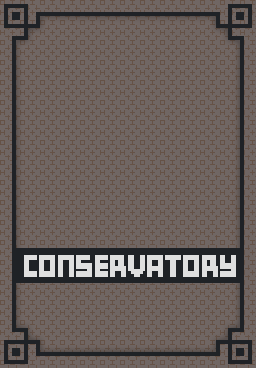
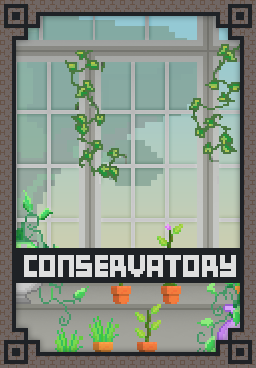
Operation: Assets. Status: Complete
and some other small stuff

diff --git a/src/com/team11/cluedo/ui/GameScreen.java b/src/com/team11/cluedo/ui/GameScreen.java
@@ -70,7 +70,6 @@ public class GameScreen extends JFrame implements Screen {
     private final Players gamePlayers;
     private final Assets gameAssets;
     private final Cards gameCards;
-    private Accusations accusations;
 
     private final Resolution resolution;
     private Dimension currSize;
@@ -79,7 +78,7 @@ public class GameScreen extends JFrame implements Screen {
 
     public GameScreen(Board gameBoard, Suspects gameSuspects, Weapons gameWeapons, Players gamePlayers, Assets gameAssets, Resolution resolution, String name) throws IOException{
         super(name);
-        //super.setIconImage(gameAssets.getIcon());
+        super.setIconImage(gameAssets.getIcon());
         this.gameBoard = gameBoard;
         this.gameSuspects = gameSuspects;
         this.gameWeapons = gameWeapons;
@@ -92,7 +91,6 @@ public class GameScreen extends JFrame implements Screen {
         this.qPanel = new QPanel(this, this.resolution);
         this.gameDice = new Dice(gameAssets, resolution);
         this.playerChange = new PlayerChange(resolution);
-        //this.accusations= new Accusations(gameAssets,gameCards,resolution);
         this.cardsPanel = new CardsPanel(gameAssets, resolution, "Your Cards");
         this.notesPanel = new NotesPanel(gameAssets,resolution);
     }

diff --git a/src/com/team11/cluedo/ui/MenuScreen.java b/src/com/team11/cluedo/ui/MenuScreen.java
@@ -168,6 +168,9 @@ public class MenuScreen implements Screen {
         playButton.addActionListener(e -> {
             if (!doSelection) {
                 selectionPanel.setVisible(true);
+                for (int i = 0 ; i < selectionPanel.getComponents().length ; i++) {
+                    selectionPanel.getComponent(i).setEnabled(false);
+                }
                 menuPanel.setEnabled(false);
                 playButton.setEnabled(false);
                 doSelection = true;
@@ -178,8 +181,11 @@ public class MenuScreen implements Screen {
                         menuPanel.setVisible(false);
                         menuPanel.removeAll();
                         timer.stop();
+                        for (int i = 0 ; i < selectionPanel.getComponents().length ; i++) {
+                            selectionPanel.getComponent(i).setEnabled(true);
+                        }
                     }
-                    menuPanel.setLocation(menuPanel.getX(), menuPanel.getY() - 20);
+                    menuPanel.setLocation(menuPanel.getX(), menuPanel.getY() - 30);
                 });
                 timer.start();
             }

diff --git a/src/com/team11/cluedo/components/CommandInput.java b/src/com/team11/cluedo/components/CommandInput.java
@@ -1016,6 +1016,10 @@ public class CommandInput {
                 gameScreen.getButtonPanel().getDoneButton().setEnabled(true);
                 break;
             case 4:
+                gameScreen.getButtonPanel().getRollButton().setEnabled(false);
+                gameScreen.getButtonPanel().getDoneButton().setEnabled(false);
+                gameScreen.getButtonPanel().getAccuseButton().setEnabled(false);
+                gameScreen.getButtonPanel().getQuestionButton().setEnabled(false);
                 break;
             case 5:
                 gameScreen.getAccusations().accuse();

diff --git a/src/com/team11/cluedo/assets/Assets.java b/src/com/team11/cluedo/assets/Assets.java
@@ -250,7 +250,7 @@ public class Assets {
     }
 
     public Image getSelectedConservatoryCard() {
-        return Toolkit.getDefaultToolkit().getImage(this.getClass().getResource("roomCard.png"));
+        return Toolkit.getDefaultToolkit().getImage(this.getClass().getResource("conservatoryCard_Selected.png"));
     }
 
     public Image getSelectedDiningCard() {
